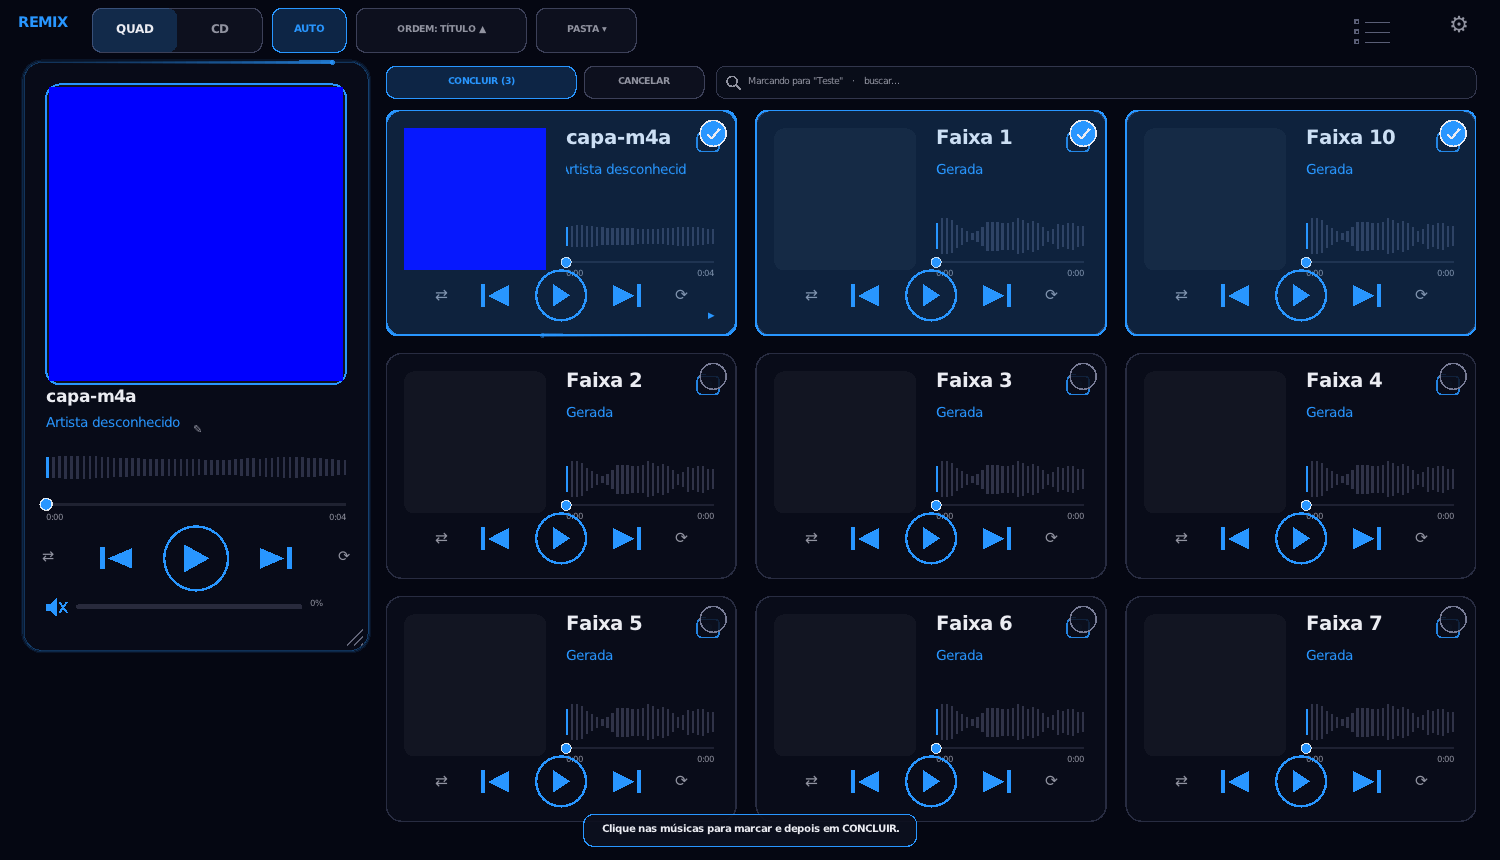
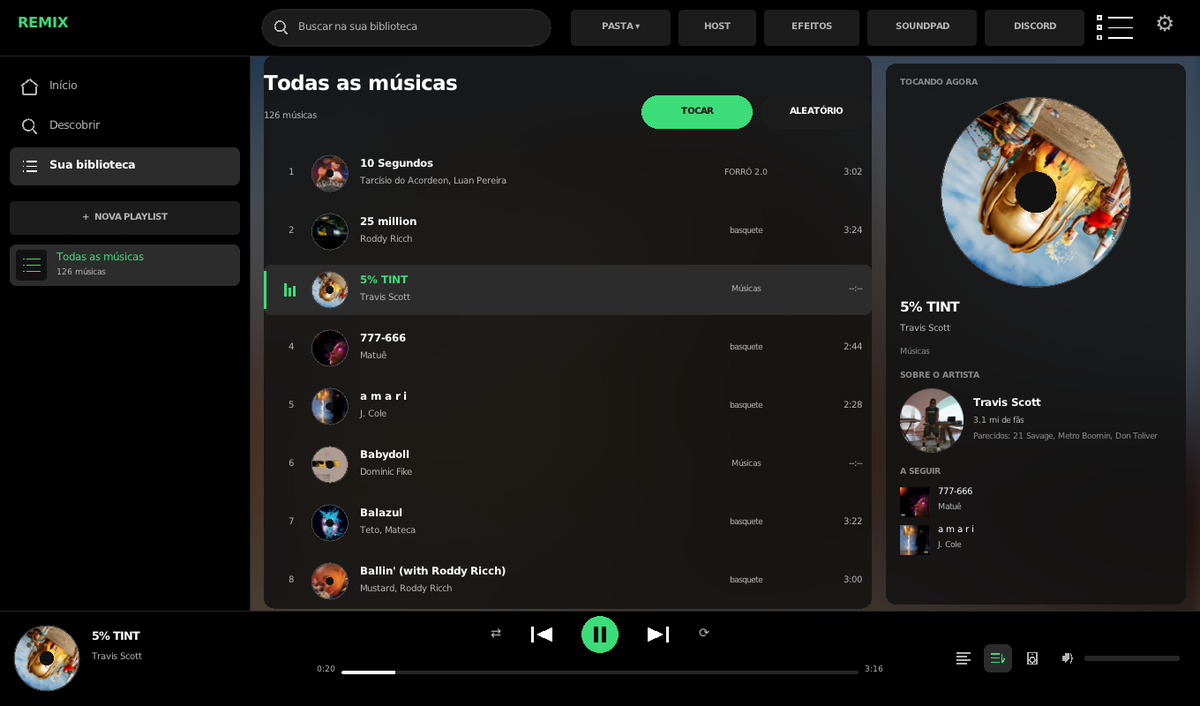
README: telas novas da 1.6 e links do repositório atualizados
- Trocadas as imagens do README pelas telas do estilo REMIX: início com
  destaque e fileiras, biblioteca com o painel Tocando agora, Descobrir por
  gênero, letra sincronizada, busca de playlists online, a mesma tela no
  Windows e o estilo Clássico (que continua).
- A lista de novidades da interface ganhou o que entrou depois: painel Tocando
  agora, letra sincronizada, listas com detalhe, escolher onde o som sai,
  lateral ajustável e busca de playlists/álbuns prontos.
- Os links apontavam para EchoGroupStudio; o repositório agora é
  DevelopersOpenSource/Remix.
- Barra do player: no Windows os botões de fechar/minimizar comem 72 px da
  direita e o botão de letra ficava de fora. Agora a barra de tempo encolhe um
  pouco antes de qualquer botão sumir.

diff --git a/comum/app_layout.h b/comum/app_layout.h
@@ -490,9 +490,16 @@ static void BuildLayoutRemix(int w,int h,int chrome){
         int vx=w-SI(20)-chrome;
         R_vol={vx-SI(96),bt+barH/2-SI(3),vx,bt+barH/2+SI(3)};
         R_volIcon={(int)R_vol.left-SI(28),bt+barH/2-SI(12),(int)R_vol.left-SI(6),bt+barH/2+SI(12)};
-        {   // botoes: letra, fila/painel e onde tocar (somem se a janela ficar estreita)
-            int bx2=(int)R_volIcon.left-SI(10), by2=bt+barH/2-SI(14), d=SI(28);
-            auto bt2=[&](RECT& r){ if(bx2-d<(int)R_seek.right+SI(20)){ r={0,0,0,0}; return; } r={bx2-d,by2,bx2,by2+d}; bx2=bx2-d-SI(6); };
+        {   // botoes: letra, fila/painel e onde tocar. Se faltar espaco, a barra de
+            // tempo encolhe um pouco antes de algum botao sumir (no Windows os botoes
+            // de fechar/minimizar comem 72 px da direita).
+            int d=SI(28), precisa=3*d+2*SI(6)+SI(16);
+            int bx2=(int)R_volIcon.left-SI(10), by2=bt+barH/2-SI(14);
+            if(bx2-precisa<(int)R_seek.right+SI(8)){
+                int novo=std::max((int)R_seek.left+SI(120),bx2-precisa-SI(8));
+                if(novo<(int)R_seek.right) R_seek.right=novo;
+            }
+            auto bt2=[&](RECT& r){ if(bx2-d<(int)R_seek.right+SI(8)){ r={0,0,0,0}; return; } r={bx2-d,by2,bx2,by2+d}; bx2=bx2-d-SI(6); };
             bt2(R_rxSaida); bt2(R_rxPainel); bt2(R_rxLetra);
         }
         R_playerPanel={0,0,0,0};

diff --git a/README.pt-BR.md b/README.pt-BR.md
@@ -3,13 +3,27 @@
 Player C++ com nucleo compartilhado entre Windows (WinAPI + GDI+) e Linux (raylib), audio
 miniaudio nos dois sistemas.
 
-English version: [README.md](README.md). Programa pronto para baixar: [Releases](https://github.com/EchoGroupStudio/Remix/releases).
+English version: [README.md](README.md). Programa pronto para baixar: [Releases](https://github.com/DevelopersOpenSource/Remix/releases).
+
+<p align="center">
+  <img src="docs/screenshots/inicio.png" alt="Tela inicial com as novidades (Linux)" width="49%">
+  <img src="docs/screenshots/biblioteca.png" alt="Biblioteca com o painel Tocando agora (Linux)" width="49%">
+</p>
+<p align="center">
+  <img src="docs/screenshots/descobrir.png" alt="Descobrir: navegar por gênero" width="32%">
+  <img src="docs/screenshots/letra.png" alt="Letra sincronizada" width="32%">
+  <img src="docs/screenshots/busca-online.png" alt="Procurar playlists prontas online" width="32%">
+</p>
+<p align="center">
+  <img src="docs/screenshots/windows-inicio.png" alt="A mesma tela no Windows" width="49%">
+  <img src="docs/screenshots/classico.png" alt="Estilo clássico, que continua" width="49%">
+</p>
 
 ## Créditos
 
 <p align="center">
-  <a href="https://github.com/Nero-2077"><img src="https://raw.githubusercontent.com/EchoGroupStudio/Remix/main/docs/creditos/nero-2077.pt-BR.svg" alt="Nero-2077: autor do Remix, ideia original e versão Windows" width="48%"></a>
-  <a href="https://github.com/NinjaZinS2"><img src="https://raw.githubusercontent.com/EchoGroupStudio/Remix/main/docs/creditos/sodre.pt-BR.svg" alt="Sodre (NinjaZinS2): co-desenvolvedor, playlists, streaming, versão Linux e Host para iOS" width="48%"></a>
+  <a href="https://github.com/Nero-2077"><img src="https://raw.githubusercontent.com/DevelopersOpenSource/Remix/main/docs/creditos/nero-2077.pt-BR.svg" alt="Nero-2077: autor do Remix, ideia original e versão Windows" width="48%"></a>
+  <a href="https://github.com/NinjaZinS2"><img src="https://raw.githubusercontent.com/DevelopersOpenSource/Remix/main/docs/creditos/sodre.pt-BR.svg" alt="Sodre (NinjaZinS2): co-desenvolvedor, playlists, streaming, versão Linux e Host para iOS" width="48%"></a>
 </p>
 
 **[Nero-2077](https://github.com/Nero-2077)** criou o Remix: a ideia original e a versão Windows.
@@ -26,7 +40,7 @@ do **Host** — o PC vira servidor para o celular — para o Remix chegar ao **i
 | `comum/` | codigo igual nos dois: `app_core.h` (logica), `app_layout.h`, `app_input.h`, `app_keys.h` (atalhos), `app_playlists.h`, `config.h`, `playlist.h`, `player_ma.h` + `audio_backend.c` (miniaudio), `cover_art.h` (capas embutidas), `app_proc.h` (processos), `online_resolve.h` / `online_play.h` / `app_online_*.h` (musica online) |
 | `assets/` | imagens, fontes e temas |
 | raiz | `config.ini`, `covers.ini`, `artists.ini`, `playlists/`, `Musica/` = a "casa" do app (criados na primeira execucao, fora do git) quando roda de `windows\` ou `linux/` |
-| `dist/` | pacotes gerados pelos scripts (zips portateis, .deb, .rpm, AppImage); os prontos ficam nas [Releases](https://github.com/EchoGroupStudio/Remix/releases) |
+| `dist/` | pacotes gerados pelos scripts (zips portateis, .deb, .rpm, AppImage); os prontos ficam nas [Releases](https://github.com/DevelopersOpenSource/Remix/releases) |
 | `docs/`, `build/`, `third_party/` | documentacao extra e telas; saida de build e compiladores/bibliotecas baixados pelos scripts (esses dois ficam fora do git) |
 
 Os zips de `dist/` continuam autossuficientes (exe/binario + assets + config na mesma pasta).
@@ -40,12 +54,26 @@ Os zips de `dist/` continuam autossuficientes (exe/binario + assets + config na 
   area principal com a tela inicial de novidades ou a grade/lista da biblioteca; e o player numa
   barra embaixo, da largura toda (capa, titulo, transporte, tempo e volume). A escolha vale para
   Windows e Linux (`Style=` no config.ini).
-- **Tela inicial com novidades** (1.6): fileiras montadas pelo que voce ouve — "O melhor de
-  <artista>", "Parecido com <artista>", "Dos artistas que voce ouve" — junto com "Bombando agora",
-  "Playlists da semana", "Albuns em alta" e "Artistas do momento". Em **Descobrir** da para
-  navegar por genero e ver as paradas de cada estilo. Tudo vem da API publica do Deezer (sem
-  login e sem chave) e so traz metadados: quem toca e baixa continua sendo o motor online do
-  Remix (yt-dlp), entao vem a musica inteira. O que voce ouve fica em `gostos.ini`, so no seu PC.
+- **Tela inicial com novidades** (1.6): destaque no topo, atalhos para o que voce mais ouviu,
+  **Sua mistura** (escolhida da sua propria biblioteca pelo que voce ouve, sorteada uma vez por dia)
+  e fileiras como "O melhor de \<artista\>", "Parecido com \<artista\>" e "Dos artistas que voce
+  ouve", junto com "Bombando agora", "Playlists da semana", "Albuns em alta" e "Artistas do
+  momento". Em **Descobrir** da para navegar por genero e ver as paradas de cada estilo. Tudo vem
+  da API publica do Deezer (sem login e sem chave) e so traz metadados: quem toca e baixa continua
+  sendo o motor online do Remix (yt-dlp), entao vem a musica inteira. O que voce ouve fica em
+  `gostos.ini`, so no seu PC.
+- **Painel Tocando agora** (direita): capa grande, sobre o artista (foto, fas e parecidos) e o que
+  vem depois na fila. Como as recomendacoes sao montadas: [docs/DESCOBRIR.md](docs/DESCOBRIR.md).
+- **Letra sincronizada**: a linha atual fica em destaque acompanhando a musica e tocar numa linha
+  pula para aquele ponto. Vem do LRCLIB (publico, sem conta) e fica guardada no disco para sempre,
+  entao depois funciona ate sem internet. No celular tambem.
+- **Listas com detalhe**: numero da faixa que vira equalizador animado na que esta tocando (play ao
+  passar o mouse), capa, de onde vem a musica (pasta ou pilula ONLINE com o estado do canal) e a
+  duracao.
+- **Escolher onde o som sai** (fone, caixa, HDMI) pela barra do player, sem perder o ponto da musica.
+- Barra lateral com largura ajustavel, e as playlists que voce mais abre aparecem primeiro.
+- **Procurar playlists e albuns prontos** na busca online (abas MUSICAS / PLAYLISTS / ALBUNS), sem
+  precisar sair do app.
 - Modo **normal** redesenhado seguindo a referencia enviada: painel superior com Quadrado/CD e temas, seguido por cards de musica em grade.
 - Modo **vertical** minimalista, focado somente na musica, com CD/capa menor, onda, seek, controles e engrenagem.
 - O modo vertical pode voltar para **Quadrado** ou **CD** em Configuracoes.
@@ -246,7 +274,7 @@ e `--exit-after <ms>`.
 
 ## Compilacao
 
-Baixe o codigo com `git clone https://github.com/EchoGroupStudio/Remix.git`.
+Baixe o codigo com `git clone https://github.com/DevelopersOpenSource/Remix.git`.
 
 Windows: clique 2x em `windows\COMPILAR.bat`. Ele compila com o **MinGW-w64 (GCC)** do MSYS2
 (ou WinLibs/scoop/choco). Se nao achar nenhum, explica como instalar e, se voce confirmar,

diff --git a/README.md b/README.md
@@ -7,16 +7,24 @@ Spotify, Deezer and Apple Music** links.
 > The interface is currently in Brazilian Portuguese. Documentação em português: [README.pt-BR.md](README.pt-BR.md).
 
 <p align="center">
-  <img src="docs/screenshots/biblioteca.png" alt="Library grid (Linux)" width="32%">
-  <img src="docs/screenshots/busca-online.png" alt="Online search (Linux)" width="32%">
-  <img src="docs/screenshots/windows-lista.png" alt="List view (Windows)" width="32%">
+  <img src="docs/screenshots/inicio.png" alt="Home screen with what is new (Linux)" width="49%">
+  <img src="docs/screenshots/biblioteca.png" alt="Library with the Now playing panel (Linux)" width="49%">
+</p>
+<p align="center">
+  <img src="docs/screenshots/descobrir.png" alt="Discover: browse by genre" width="32%">
+  <img src="docs/screenshots/letra.png" alt="Synced lyrics" width="32%">
+  <img src="docs/screenshots/busca-online.png" alt="Searching ready-made playlists online" width="32%">
+</p>
+<p align="center">
+  <img src="docs/screenshots/windows-inicio.png" alt="Same screen on Windows" width="49%">
+  <img src="docs/screenshots/classico.png" alt="Classic style, still there" width="49%">
 </p>
 
 ## Credits
 
 <p align="center">
-  <a href="https://github.com/Nero-2077"><img src="https://raw.githubusercontent.com/EchoGroupStudio/Remix/main/docs/creditos/nero-2077.en.svg" alt="Nero-2077: author of Remix, original idea and Windows version" width="48%"></a>
-  <a href="https://github.com/NinjaZinS2"><img src="https://raw.githubusercontent.com/EchoGroupStudio/Remix/main/docs/creditos/sodre.en.svg" alt="Sodre (NinjaZinS2): co-developer, playlists, streaming, Linux version and Host for iOS" width="48%"></a>
+  <a href="https://github.com/Nero-2077"><img src="https://raw.githubusercontent.com/DevelopersOpenSource/Remix/main/docs/creditos/nero-2077.en.svg" alt="Nero-2077: author of Remix, original idea and Windows version" width="48%"></a>
+  <a href="https://github.com/NinjaZinS2"><img src="https://raw.githubusercontent.com/DevelopersOpenSource/Remix/main/docs/creditos/sodre.en.svg" alt="Sodre (NinjaZinS2): co-developer, playlists, streaming, Linux version and Host for iOS" width="48%"></a>
 </p>
 
 **[Nero-2077](https://github.com/Nero-2077)** created Remix: the original idea and the Windows version.
@@ -26,7 +34,7 @@ the PC acting as a server for the phone — so Remix reaches the **iPhone (iOS) 
 
 ## Download
 
-Portable builds are on the [Releases page](https://github.com/EchoGroupStudio/Remix/releases), nothing to install:
+Portable builds are on the [Releases page](https://github.com/DevelopersOpenSource/Remix/releases), nothing to install:
 
 | System | File |
 |---|---|
@@ -110,7 +118,12 @@ inside the `.zip`) and that your antivirus did not quarantine it.
 
 **Look and feel**
 - Two interface styles (Settings > INTERFACE STYLE): **Classic** (the original look: theme-colored outlines, LED glow, transport on every card) and **REMIX** (1.6, replacing the old Clean and Spotify + LED): sidebar with Home / Discover / Your library and your playlists, search in the top bar, and the player in a full-width bar at the bottom. The choice is saved as `Style=` in config.ini.
-- Home screen with what is new (1.6): rows built from what you actually listen to ("Best of <artist>", "Similar to <artist>", "From the artists you listen to") next to the country charts, week playlists, hot albums and artists; **Discover** browses by genre. Metadata comes from Deezer's public API (no login, no key); playback still goes through Remix's own online engine (yt-dlp), so you get the full song. Your listening profile stays on your PC (`gostos.ini`).
+- Home screen with what is new (1.6): a featured banner, shortcuts to what you played most, **Your mix** (picked from your own library by what you listen to, reshuffled once a day) and rows like "Best of \<artist\>", "Similar to \<artist\>", "From the artists you listen to", plus the country charts, week playlists, hot albums and artists. **Discover** browses by genre. Metadata comes from Deezer's public API (no login, no key); playback still goes through Remix's own online engine (yt-dlp), so you get the full song. Your listening profile stays on your PC (`gostos.ini`).
+- **Now playing panel** (right side): big cover, about the artist (photo, fans, similar artists) and what comes next in the queue. How the recommendations are built: [docs/DESCOBRIR.md](docs/DESCOBRIR.md) (Portuguese).
+- **Synced lyrics**: the current line is highlighted and follows the song, clicking a line jumps there. Lyrics come from LRCLIB (public, no account) and are kept on disk forever, so they work offline afterwards. Also on the phone.
+- **Detailed lists**: track number that turns into an animated equalizer on the song that is playing (play button on hover), cover, where the song comes from (folder or an ONLINE pill with the channel state) and the duration.
+- **Pick where the sound goes** (headphones, speakers, HDMI) from the player bar, without losing your place.
+- Resizable sidebar, and the playlists you open most come first.
 - Square, CD or compact vertical layout; grid or list; themes; LED glow, particles and glitch effects (with a light mode for slower PCs); 8-band equalizer.
 
 **Desktop integration**
@@ -122,7 +135,7 @@ inside the `.zip`) and that your antivirus did not quarantine it.
 ## Building from source
 
 ```bash
-git clone https://github.com/EchoGroupStudio/Remix.git
+git clone https://github.com/DevelopersOpenSource/Remix.git
 cd Remix
 ```
 
